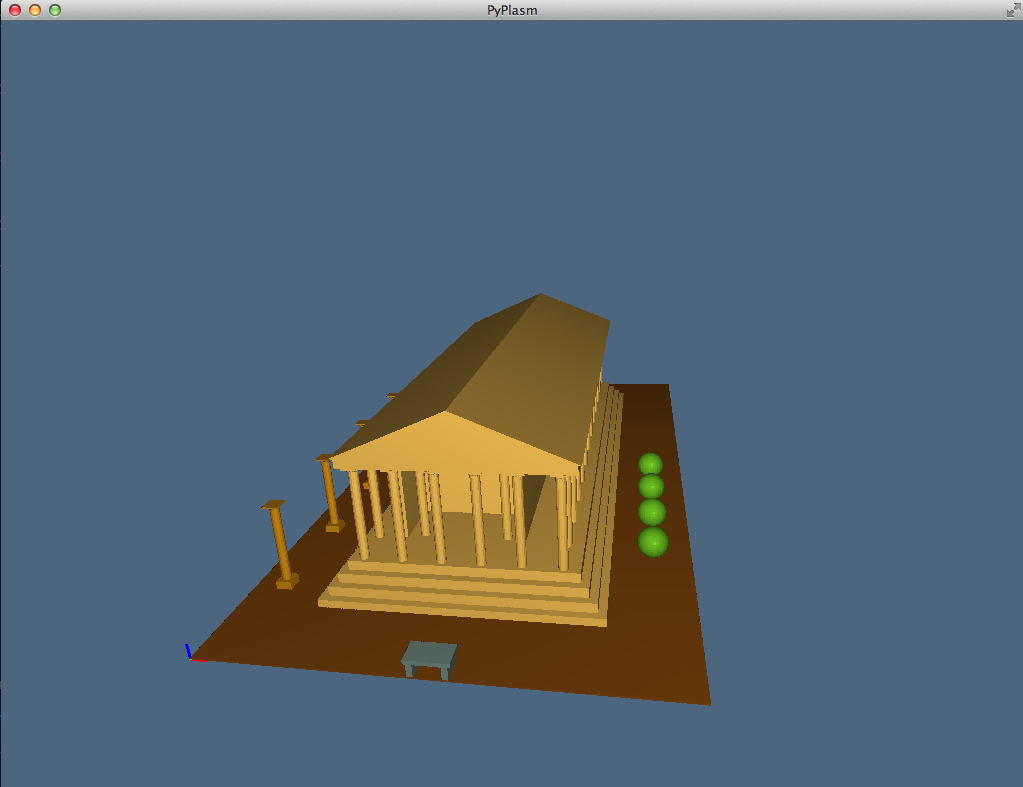
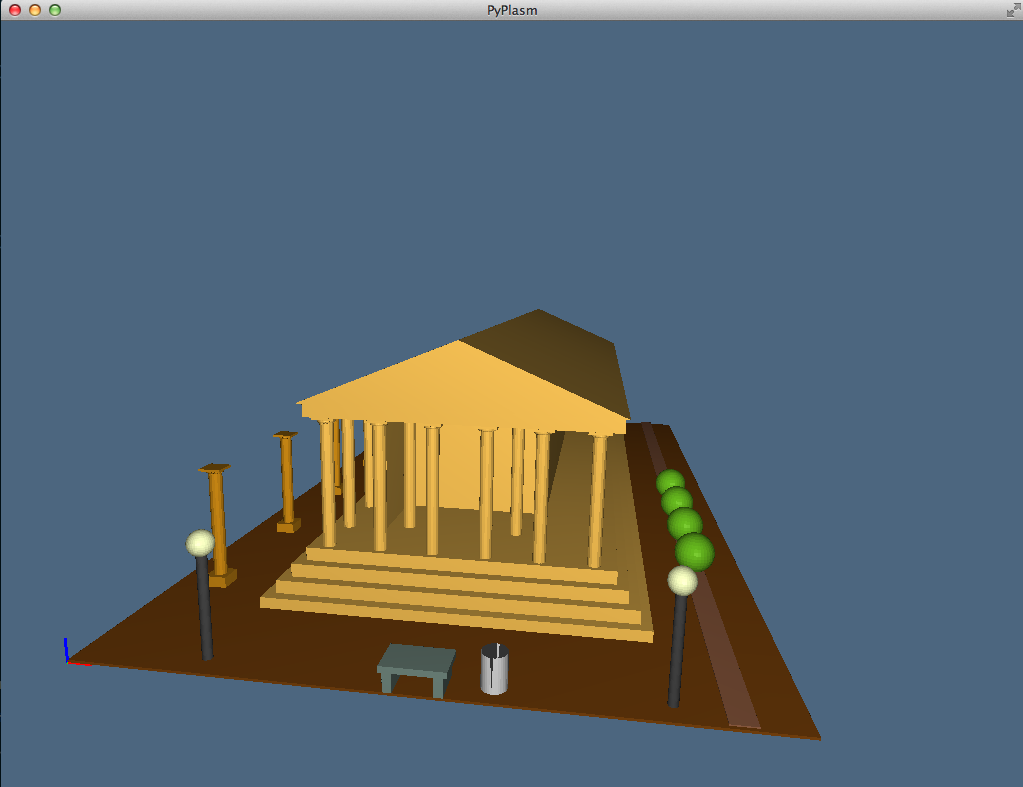
commit - 4

Changed region(s): [[0.0606, 0.3659, 0.8182, 0.9454]]

diff --git a/2014-04-11/index.html b/2014-04-11/index.html
@@ -55,6 +55,8 @@
 
 		<ul>
 			
+			<li><a href="./images/screen_0.1.png">screen column build 1</a></li>
+			<li><a href="./images/screen_0.2.png">screen column build 2</a></li>
 			<li><a href="./images/screen_1.png">screen exercise 1</a></li>
 			<li><a href="./images/screen_2.png">screen exercise 2</a></li>
 			<li><a href="./images/screen_3.png">screen exercise 3</a></li>

diff --git a/2014-04-11/python/exercise4.py b/2014-04-11/python/exercise4.py
@@ -71,7 +71,7 @@ def Gable(radius,h,n):
 
 # Function color:
 def myColor(r,g,b):
-  return Color4f(r/255.0,g/255.0,b/255.0,1)
+  return Color4f(r/255.0,g/255.0,b/255.0,0.05)
 
 # Function for make columns (re-definded from mapper.py)
 def larRod(params):
@@ -111,6 +111,10 @@ colorRuins = myColor(193,130,19)
 colorExternal = myColor(127,70,14)
 colorHedges = myColor(99,179,29)
 colorBench = myColor(112,134,125)
+colorBaseLamp = myColor(67,67,67)
+colorEndLamp = myColor(245,253,191)
+colorTrash = myColor(210,210,210)
+colorStreet = myColor(148,96,67)
 
 #-------------------- Horizontal Partition Base ----------------------------------
 
@@ -298,7 +302,7 @@ internal_columns_row_1 = [T(1)(5.3),column]
 
 internal_columns_row_1 = STRUCT(NN(2)(internal_columns_row_1))
 
-internal_columns_1 = STRUCT([T([2,3])([35,1.5]),internal_columns_row_1])
+internal_columns_1 = STRUCT([T([2,3])([39,1.5]),internal_columns_row_1])
 
 internal_columns_1 = STRUCT([T(1)(5),internal_columns_1])
 
@@ -516,13 +520,69 @@ bench = (T([1,3])([12,0.1])(bench))
 
 bench = STRUCT([COLOR(colorBench)(bench)])
 
+# Lamps:
+
+# Base lamp:
+
+base_lamp = larRod([0.2,5])([32,1])
+
+model_base_lamp = STRUCT(MKPOLS(base_lamp))
+
+model_base_lamp = COLOR(colorBaseLamp)(model_base_lamp)
+
+end_lamp = larBall(0.5)([18,36])
+
+# End lamp (ligth):
+
+model_end_lamp = STRUCT(MKPOLS(end_lamp))
+
+model_end_lamp = (T(3)(4.7)(model_end_lamp))
+
+model_end_lamp = COLOR(colorEndLamp)(model_end_lamp)
+
+# Lamp 1:
+
+lamp_1 = STRUCT([model_base_lamp,model_end_lamp])
+
+lamp_1 = (T([1,2])([5,1])(lamp_1))
+
+# Lamp 2:
+
+lamp_2 = STRUCT([model_base_lamp,model_end_lamp])
+
+lamp_2 = (T([1,2])([22.3,1])(lamp_2))
+
+# Lamps:
+
+lamps = STRUCT([lamp_1,lamp_2])
+
+# Trash:
+
+trash = checkModel(larCylinder([.5,1.5])([32,1]))
+
+model_trash = STRUCT(MKPOLS(trash))
+
+model_trash = COLOR(colorTrash)(model_trash)
+
+final_trash = STRUCT([model_trash])
+
+final_trash = (T([1,2])([16,1])(final_trash))
+
+# Street :
+
+street = CUBOID([1,49.44,0.05])
+
+street = (T([1,3])([24,0.2])(street))
+
+street = STRUCT([COLOR(colorStreet)(street)])
+
 # External_Ruins:
 
 external_ruins = STRUCT([ruin1])
 
 external_ruins = STRUCT([COLOR(colorRuins)(external_ruins)])
 
-urban_fittings = STRUCT([external_base,hedges,external_ruins,bench])
+urban_fittings = STRUCT([external_base,hedges,external_ruins,bench,lamps,final_trash,street])
 
 #-------------------------- All in One -----------------------------------------
 

diff --git a/2014-04-11/python/exercise1.py b/2014-04-11/python/exercise1.py
@@ -71,7 +71,7 @@ def Gable(radius,h,n):
 
 # Function color:
 def myColor(r,g,b):
-	return Color4f(r/255.0,g/255.0,b/255.0,1)
+	return Color4f(r/255.0,g/255.0,b/255.0,0.05)
 
 # Function for make columns (re-definded from mapper.py)
 def larRod(params):
@@ -239,7 +239,17 @@ end_capital = STRUCT([T([1,2])([-0.5,-0.5])(end_capital)])
 end_capital = STRUCT([T(3)(6.8)(end_capital)])
 
 # make column:
+"""
+cilynder = STRUCT([T([1,2])([2,2])(cilynder)])
+base_capital = STRUCT([T([1,2,3])([2,2,1])(base_capital)])
+end_capital = STRUCT([T([1,2,3])([2,2,2])(end_capital)])
 
+column = STRUCT([cilynder,base_capital,end_capital])
+
+column = R([1,2])(PI/4)(column)
+
+VIEW(COLOR(color)(column))
+"""
 column = STRUCT([cilynder,base_capital,end_capital])
 
 # First row of columns:
@@ -288,7 +298,7 @@ internal_columns_row_1 = [T(1)(5.3),column]
 
 internal_columns_row_1 = STRUCT(NN(2)(internal_columns_row_1))
 
-internal_columns_1 = STRUCT([T([2,3])([35,1.5]),internal_columns_row_1])
+internal_columns_1 = STRUCT([T([2,3])([39,1.5]),internal_columns_row_1])
 
 internal_columns_1 = STRUCT([T(1)(5),internal_columns_1])
 

diff --git a/2014-04-11/python/exercise2.py b/2014-04-11/python/exercise2.py
@@ -71,7 +71,7 @@ def Gable(radius,h,n):
 
 # Function color:
 def myColor(r,g,b):
-	return Color4f(r/255.0,g/255.0,b/255.0,1)
+	return Color4f(r/255.0,g/255.0,b/255.0,0.05)
 
 # Function for make columns (re-definded from mapper.py)
 def larRod(params):
@@ -288,7 +288,7 @@ internal_columns_row_1 = [T(1)(5.3),column]
 
 internal_columns_row_1 = STRUCT(NN(2)(internal_columns_row_1))
 
-internal_columns_1 = STRUCT([T([2,3])([35,1.5]),internal_columns_row_1])
+internal_columns_1 = STRUCT([T([2,3])([39,1.5]),internal_columns_row_1])
 
 internal_columns_1 = STRUCT([T(1)(5),internal_columns_1])
 

diff --git a/2014-04-11/python/exercise3.py b/2014-04-11/python/exercise3.py
@@ -71,7 +71,7 @@ def Gable(radius,h,n):
 
 # Function color:
 def myColor(r,g,b):
-	return Color4f(r/255.0,g/255.0,b/255.0,1)
+	return Color4f(r/255.0,g/255.0,b/255.0,0.05)
 
 # Function for make columns (re-definded from mapper.py)
 def larRod(params):
@@ -289,7 +289,7 @@ internal_columns_row_1 = [T(1)(5.3),column]
 
 internal_columns_row_1 = STRUCT(NN(2)(internal_columns_row_1))
 
-internal_columns_1 = STRUCT([T([2,3])([35,1.5]),internal_columns_row_1])
+internal_columns_1 = STRUCT([T([2,3])([39,1.5]),internal_columns_row_1])
 
 internal_columns_1 = STRUCT([T(1)(5),internal_columns_1])
 
